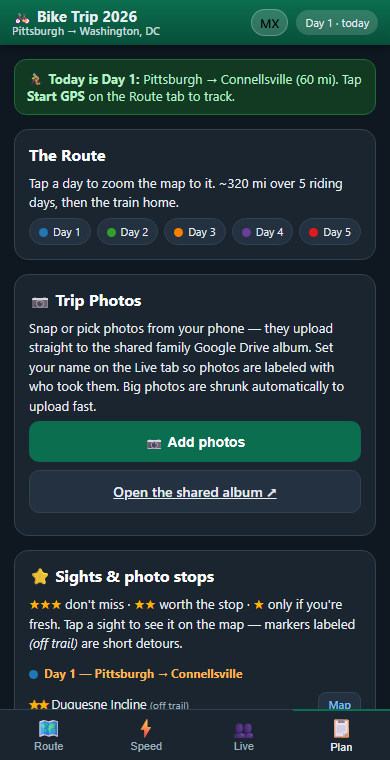
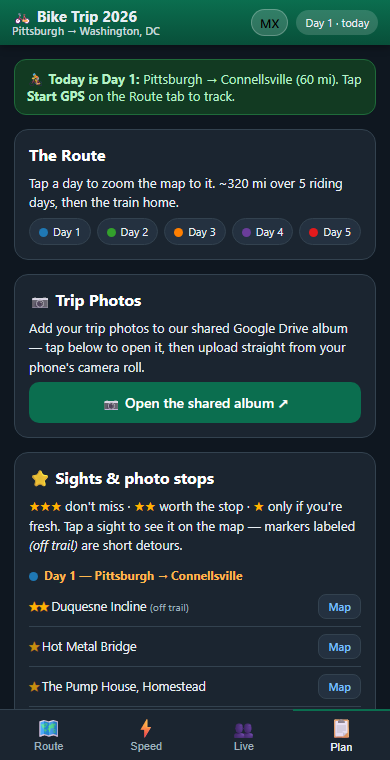
Simplify Trip Photos to a direct Google Drive link; remove upload Worker

Changed region(s): [[0.0615, 0.4237, 0.9231, 0.9382], [0.6462, 0.7868, 0.9231, 0.9382]]

diff --git a/index.html b/index.html
@@ -9,7 +9,7 @@
 <title>Bike Trip 2026 — Pittsburgh to DC</title>
 <link rel="stylesheet" href="https://unpkg.com/leaflet@1.9.4/dist/leaflet.css"
       integrity="sha256-p4NxAoJBhIIN+hmNHrzRCf9tD/miZyoHS5obTRR9BMY=" crossorigin="" />
-<link rel="stylesheet" href="styles.css?v=7">
+<link rel="stylesheet" href="styles.css?v=8">
 </head>
 <body>
 <div id="app">
@@ -95,12 +95,8 @@
 
       <div class="card">
         <h2 data-i18n="photosTitle">📷 Trip Photos</h2>
-        <p class="muted" data-i18n="photosIntro">Snap or pick photos from your phone — they upload straight to the shared family Google Drive album.</p>
-        <input type="file" id="photoInput" accept="image/*" multiple>
-        <button class="btn full-width" id="btnPhoto" data-i18n="photoBtn">📷 Add photos</button>
-        <a class="btn secondary full-width" id="photoAlbum" target="_blank" rel="noopener" style="margin-top:8px" data-i18n="photoOpenDrive">Open the shared album ↗</a>
-        <p id="photoNote" class="muted" style="margin-top:8px;font-size:12px"></p>
-        <div id="photoResults"></div>
+        <p class="muted" data-i18n="photosIntro">Add your trip photos to our shared Google Drive album — tap below to open it, then upload straight from your phone's camera roll.</p>
+        <a class="btn full-width" id="photoAlbum" target="_blank" rel="noopener" href="https://drive.google.com/drive/folders/12tFp83mPtvHTAqrWHggXpnkcJkSI5nKn" data-i18n="photoOpenDrive">📷 Open the shared album ↗</a>
       </div>
 
       <div class="card">
@@ -201,14 +197,13 @@
 <script src="https://www.gstatic.com/firebasejs/10.12.2/firebase-app-compat.js"></script>
 <script src="https://www.gstatic.com/firebasejs/10.12.2/firebase-database-compat.js"></script>
 <script src="https://cdnjs.cloudflare.com/ajax/libs/qrcodejs/1.0.0/qrcode.min.js"></script>
-<script src="i18n.js?v=7"></script>
-<script src="data.js?v=7"></script>
-<script src="route-data.js?v=7"></script>
-<script src="stops-data.js?v=7"></script>
-<script src="sights-data.js?v=7"></script>
-<script src="app.js?v=7"></script>
-<script src="firebase-config.js?v=7"></script>
-<script src="upload.js?v=7"></script>
-<script src="live.js?v=7"></script>
+<script src="i18n.js?v=8"></script>
+<script src="data.js?v=8"></script>
+<script src="route-data.js?v=8"></script>
+<script src="stops-data.js?v=8"></script>
+<script src="sights-data.js?v=8"></script>
+<script src="app.js?v=8"></script>
+<script src="firebase-config.js?v=8"></script>
+<script src="live.js?v=8"></script>
 </body>
 </html>

diff --git a/styles.css b/styles.css
@@ -301,27 +301,9 @@ code { background: var(--panel-2); color: #cfe; padding: 2px 6px; border-radius:
 #otQr { background: #fff; padding: 10px; border-radius: 10px; width: max-content; margin: 6px auto; }
 #otQr img, #otQr canvas { display: block; }
 
-/* ---------- Photo upload ---------- */
-#photoInput { display: none; }
-.photo-progress { margin-top: 10px; }
-.photo-row {
-  display: flex; align-items: center; gap: 10px; padding: 8px 0;
-  border-bottom: 1px solid var(--line); font-size: 12.5px;
-}
-.photo-row:last-child { border-bottom: none; }
-.photo-row .thumb {
-  width: 44px; height: 44px; border-radius: 8px; object-fit: cover;
-  flex: none; background: var(--panel-2); border: 1px solid var(--line);
-}
-.photo-row .pmeta { min-width: 0; flex: 1; }
-.photo-row .pname { font-weight: 600; overflow: hidden; text-overflow: ellipsis; white-space: nowrap; }
-.photo-row .pstat { font-size: 11px; color: var(--muted); }
-.photo-row .pstat.ok { color: #8fe0a6; }
-.photo-row .pstat.err { color: #ffb1b8; }
-.photo-row .bar { height: 4px; background: var(--panel-2); border-radius: 999px; overflow: hidden; margin-top: 4px; }
-.photo-row .bar > i { display: block; height: 100%; width: 0; background: var(--green); transition: width .2s; }
-.photo-row a { color: #7fc0ff; text-decoration: none; font-weight: 600; flex: none; }
+/* ---------- Photo album button ---------- */
 .btn.full-width { width: 100%; }
+a.btn { text-decoration: none; }
 
 @media (min-width: 720px) {
   header h1 { font-size: 18px; }

diff --git a/i18n.js b/i18n.js
@@ -103,11 +103,8 @@ en: {
   otHintRelay: "Paste your relay Worker URL above to generate your OwnTracks setup.",
   // photos
   photosTitle: "📷 Trip Photos",
-  photosIntro: "Snap or pick photos from your phone — they upload straight to the shared family Google Drive album. Set your name on the Live tab so photos are labeled with who took them. Big photos are shrunk automatically to upload fast.",
-  photoBtn: "📷 Add photos",
-  photoOpenDrive: "Open the shared album ↗",
-  photoUploading: "Uploading…", photoDone: "Uploaded ✓", photoErr: "Upload failed", photoView: "View",
-  photoNotConfig: "Photo upload isn't set up yet — see SETUP.md."
+  photosIntro: "Add your trip photos to our shared Google Drive album — tap below to open it, then upload straight from your phone's camera roll.",
+  photoOpenDrive: "📷 Open the shared album ↗"
 },
 es: {
   tabRoute: "Ruta", tabSpeed: "Velocidad", tabLive: "En vivo", tabPlan: "Plan",
@@ -180,11 +177,8 @@ es: {
   otHintRelay: "Pega la URL de tu Worker de relevo arriba para generar tu configuración de OwnTracks.",
   // photos
   photosTitle: "📷 Fotos del viaje",
-  photosIntro: "Toma o elige fotos desde tu teléfono — se suben directo al álbum familiar compartido en Google Drive. Pon tu nombre en la pestaña En vivo para que las fotos se etiqueten con quién las tomó. Las fotos grandes se reducen automáticamente para subir rápido.",
-  photoBtn: "📷 Agregar fotos",
-  photoOpenDrive: "Abrir el álbum compartido ↗",
-  photoUploading: "Subiendo…", photoDone: "Subida ✓", photoErr: "Falló la subida", photoView: "Ver",
-  photoNotConfig: "La subida de fotos aún no está configurada — revisa SETUP.md."
+  photosIntro: "Agrega tus fotos del viaje a nuestro álbum compartido en Google Drive — toca abajo para abrirlo y súbelas directo desde la galería de tu teléfono.",
+  photoOpenDrive: "📷 Abrir el álbum compartido ↗"
 }
 };
 

diff --git a/firebase-config.js b/firebase-config.js
@@ -25,10 +25,3 @@ window.FIREBASE_CONFIG = {
 // OwnTracks background relay (Cloudflare Worker). Pre-fills the Live tab's
 // OwnTracks setup so riders don't have to paste it. Not a secret.
 window.OT_RELAY_URL = "https://biketrip-owntracks-relay.manuel-avitia-v.workers.dev";
-
-// Photo-upload relay (Cloudflare Worker, see upload-relay/). It holds the
-// Google OAuth credentials and pushes photos into the shared Drive folder, so
-// family members upload without signing in. The Worker URL is NOT a secret
-// (the secrets live inside the Worker). Deploy upload-relay/ then confirm this
-// matches the deployed name.
-window.UPLOAD_WORKER_URL = "https://biketrip-photo-upload.manuel-avitia-v.workers.dev";

diff --git a/SETUP.md b/SETUP.md
@@ -94,41 +94,17 @@ Plus a low-cost **IoT/data SIM** (Hologram, Soracom, or a cheap prepaid plan). P
 
 ---
 
-## 4) Photo upload to Google Drive (optional, free)
+## 4) Photo sharing via Google Drive (no setup needed)
 
-The **Plan tab → 📷 Trip Photos** lets anyone snap/pick photos that upload straight into your shared Google Drive folder — no Google sign-in for the uploaders. A tiny Cloudflare Worker (`upload-relay/`) holds the Google credentials and does the upload on their behalf.
+The **Plan tab → 📷 Trip Photos** card is just a button that opens the shared Google Drive folder, where everyone uploads their photos directly in the Drive app/site.
 
-### a) Create Google OAuth credentials (once)
+To let the family add photos, share the folder with upload rights:
 
-1. Go to <https://console.cloud.google.com> → create/select a project.
-2. **APIs & Services → Library →** enable **Google Drive API**.
-3. **APIs & Services → OAuth consent screen:** choose **External**, fill the basics, and under **Test users** add the Google account that **owns the Drive folder**. (Testing mode is fine; you don't need to publish.)
-4. **APIs & Services → Credentials → Create credentials → OAuth client ID → Web application.**
-   - Add `https://developers.google.com/oauthplayground` as an **Authorized redirect URI**.
-   - Save the **Client ID** and **Client secret**.
+1. In Google Drive, right-click the trip folder → **Share**.
+2. Either add each person's Google account as **Editor**, or set **General access → Anyone with the link → Editor**.
+3. The folder link is already wired into the button (and in `index.html` if you ever need to change it).
 
-### b) Get a refresh token (once)
-
-1. Open the **OAuth 2.0 Playground** <https://developers.google.com/oauthplayground>.
-2. Click the ⚙️ (top right) → check **Use your own OAuth credentials** → paste your Client ID + secret.
-3. On the left, in **Input your own scopes**, enter `https://www.googleapis.com/auth/drive` → **Authorize APIs** → sign in as the folder owner → allow.
-4. Click **Exchange authorization code for tokens**. Copy the **Refresh token**.
-
-### c) Deploy the upload Worker
-
-From the `upload-relay/` folder:
-
-```
-wrangler login
-wrangler secret put GOOGLE_CLIENT_ID
-wrangler secret put GOOGLE_CLIENT_SECRET
-wrangler secret put GOOGLE_REFRESH_TOKEN
-wrangler deploy
-```
-
-`DRIVE_FOLDER_ID` is already set in `upload-relay/wrangler.toml` to your folder. The deployed URL should be `https://biketrip-photo-upload.<you>.workers.dev` — if your subdomain differs, update `window.UPLOAD_WORKER_URL` in [`firebase-config.js`](firebase-config.js), then commit & push.
-
-> The Google Client ID, secret, and refresh token live **only inside the Worker** (set via `wrangler secret`, never in the website or git), so they're never exposed to uploaders. Photos are owned by the folder owner and named `Name_timestamp_original.jpg`. The browser downscales photos to ~2048 px before upload to save data. If you'd rather keep the token tightly scoped you can try `https://www.googleapis.com/auth/drive.file`, but uploads into a pre-existing folder are most reliable with the full `drive` scope.
+> Uploading to Google Drive requires the person to be signed into a Google account with edit access to the folder. There's nothing to deploy for this.
 
 ---
 

diff --git a/README.md b/README.md
@@ -14,7 +14,7 @@ It runs entirely in the phone's browser — no app install, no server, no API ke
   - 🟢 **10–12 mph** — on target
   - 🟢🟢 **12+ mph** — flying
   - Shows your 30-second average, trip average, and max speed, plus a live "on pace?" verdict (goal: 10 mph).
-- **📋 Plan tab** — All five days with maps, stops, and mileage. Save your own **pins** (interest points) — tap the map or use 📍 to mark your GPS spot. Pins are stored on your device. **📷 Trip Photos**: snap/pick photos that upload straight into a shared Google Drive folder (optional Cloudflare Worker — see **[SETUP.md](SETUP.md)** section 4).
+- **📋 Plan tab** — All five days with maps, stops, and mileage. Save your own **pins** (interest points) — tap the map or use 📍 to mark your GPS spot. Pins are stored on your device. **📷 Trip Photos**: a button that opens the shared Google Drive folder so everyone uploads their photos there (see **[SETUP.md](SETUP.md)** section 4).
 - **👥 Live tab** — Optional **live group map**: everyone opens the shared link, enters a name, and sees each other move in real time. Access is gated by an unguessable trip code in the link (treat it like a passcode). Requires a free Firebase project — see **[SETUP.md](SETUP.md)**. Background tracking (page closed) via the OwnTracks app or a 4G GPS tracker is covered there too.
 - **Date-aware** — On a real trip day it opens straight to live tracking for that day. Any other day it opens in browse/training mode.
 